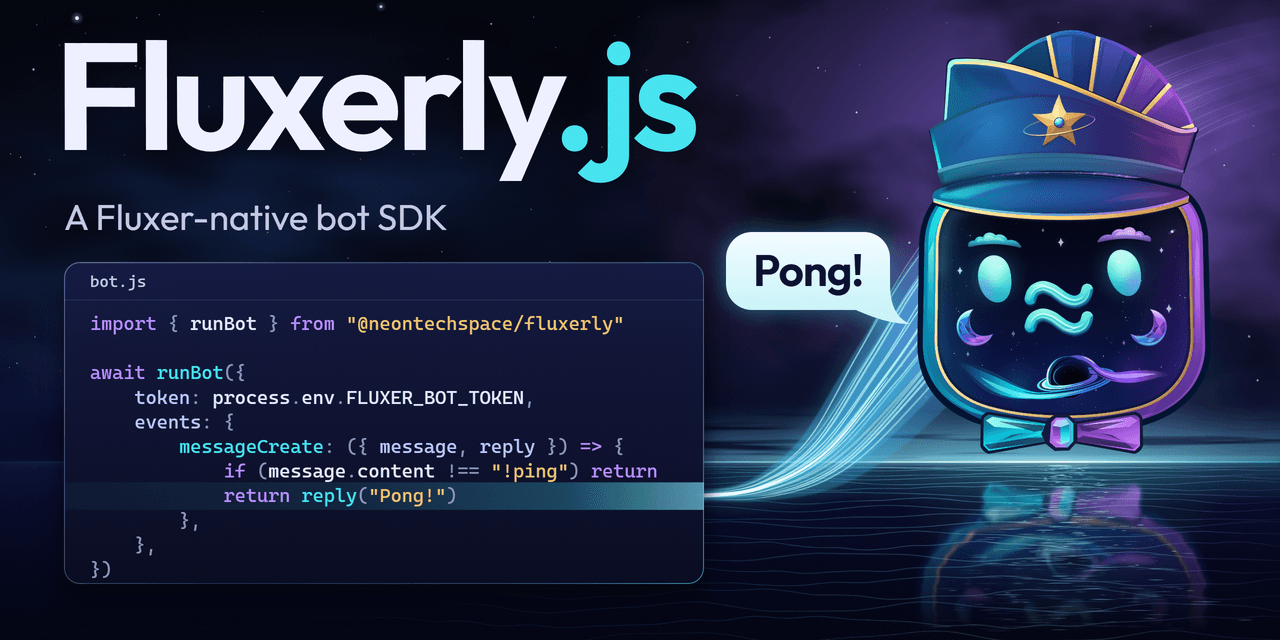
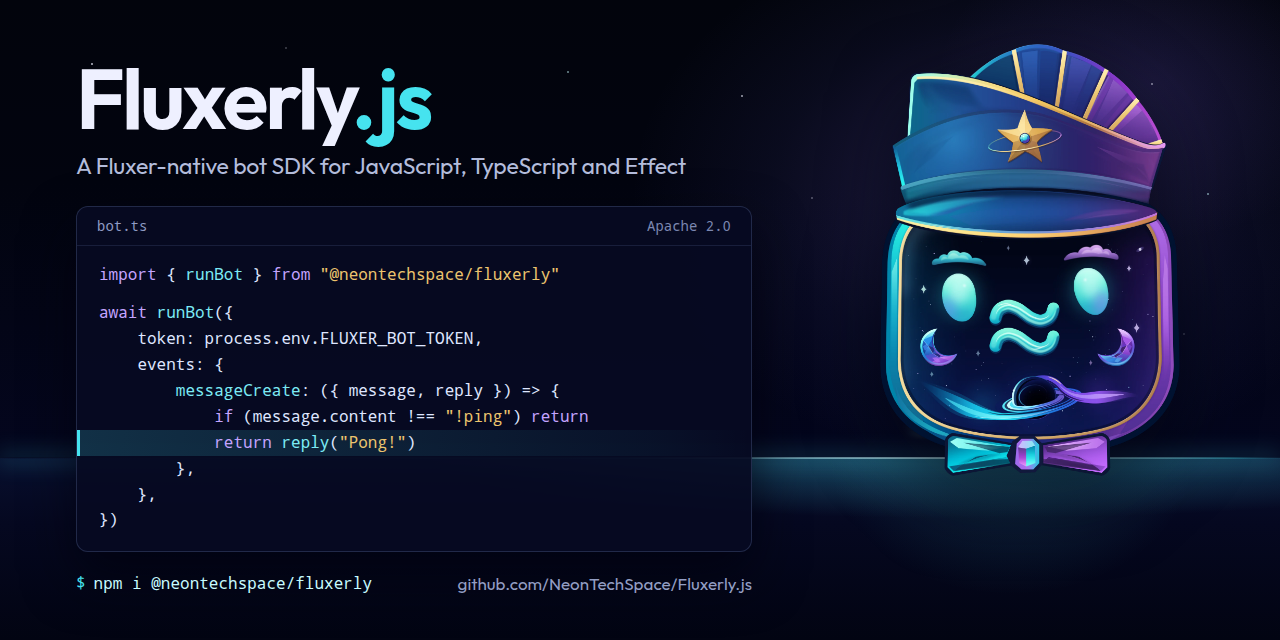
Update Fluxerly.js OG and GitHub social preview images

diff --git a/projects/web/src/lib/seo.ts b/projects/web/src/lib/seo.ts
@@ -19,7 +19,7 @@ export const shareImage = {
     url: `${siteUrl}/og-image.jpg`,
     width: 1200,
     height: 630,
-    alt: "Fluxerly.js, a Fluxer-native bot SDK: a few lines of bot code and the conductor mascot answering Pong!",
+    alt: "Fluxerly.js, a Fluxer-native bot SDK for JavaScript, TypeScript and Effect, with the cosmic conductor floating above cyan-lit midnight water",
 }
 
 type Node = Record<string, unknown>
